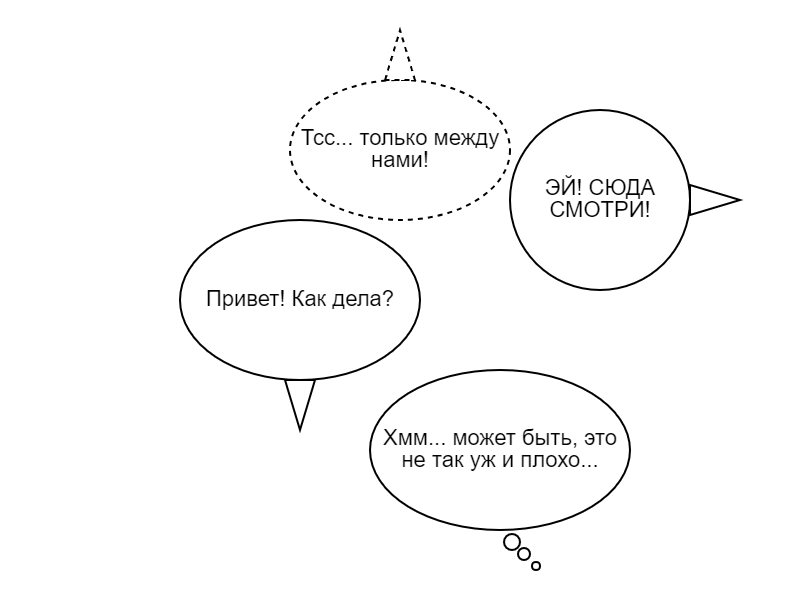
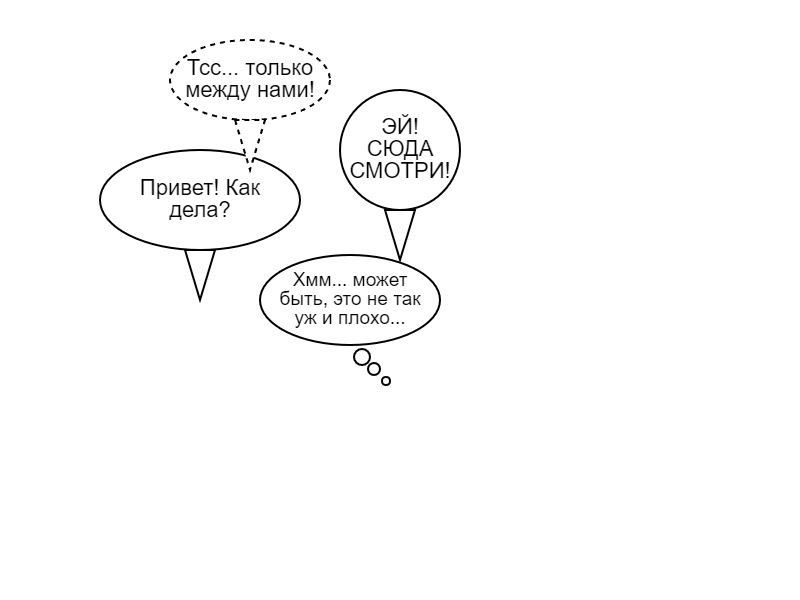
05-07-2025_17-09 Начало начал!

diff --git a/export.js b/export.js
@@ -8,7 +8,7 @@ const __dirname = path.dirname(fileURLToPath(import.meta.url));
 (async () => {
   const browser = await puppeteer.launch({
     headless: true,
-    defaultViewport: { width: 800, height: 600 }
+    defaultViewport: { width: 1024, height: 1024 }
   });
 
   const page = await browser.newPage();

diff --git a/index.html b/index.html
@@ -11,8 +11,8 @@
       overflow: hidden;
     }
     #container {
-      width: 800px;
-      height: 600px;
+      width: 1024px;
+      height: 1024px;
     }
   </style>
 </head>
